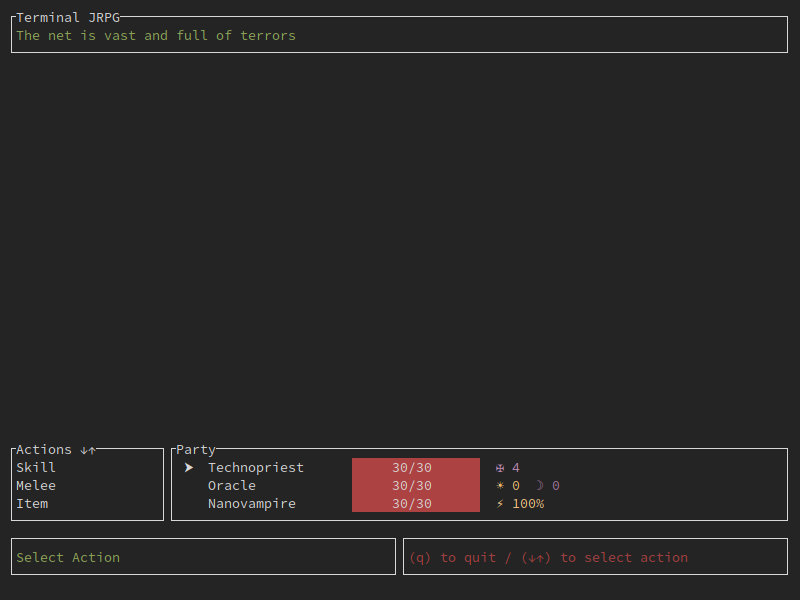
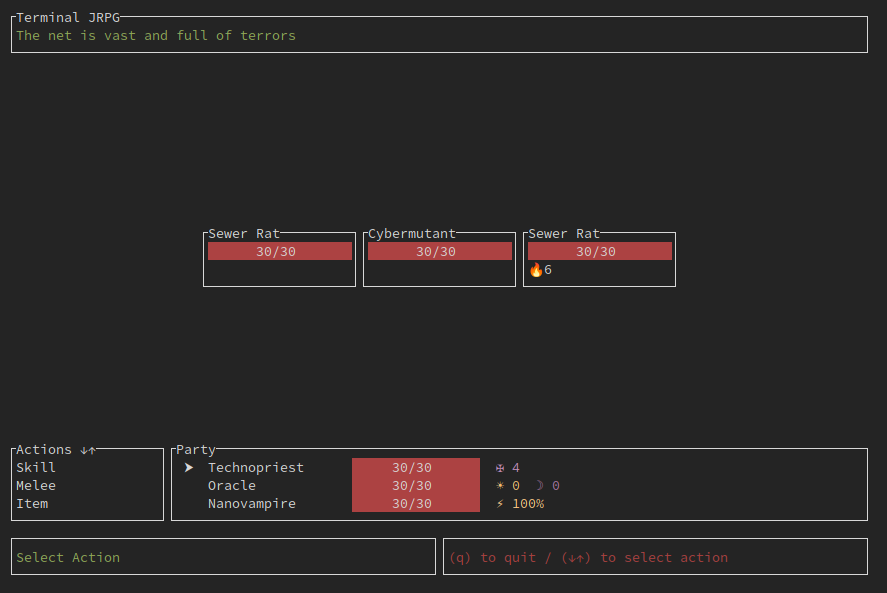
Enemy panels

diff --git a/src/ui.rs b/src/ui.rs
@@ -1,13 +1,15 @@
 use hecs::With;
 use ratatui::{
     Frame,
-    layout::{Constraint, Direction, Layout, Rect},
+    layout::{Constraint, Direction, Flex, Layout, Rect},
     style::{Color, Style},
     text::{Line, Span, Text},
-    widgets::{Block, Borders, Gauge, List, Paragraph, Wrap},
+    widgets::{Block, Borders, Clear, Gauge, List, Paragraph, Wrap},
 };
 
-use crate::app::{App, CurrentScreen, Health, Job, Name, Party, Stats};
+use crate::app::{
+    App, Burning, CurrentScreen, GameState, Health, Hostile, Job, Name, Party, Stats,
+};
 
 pub fn ui(frame: &mut Frame, app: &App) {
     let chunks = Layout::default()
@@ -42,7 +44,72 @@ fn draw_title(frame: &mut Frame, rect: Rect) {
     frame.render_widget(title, rect);
 }
 
-fn draw_field(frame: &mut Frame, rect: Rect, app: &App) {}
+fn draw_field(frame: &mut Frame, rect: Rect, app: &App) {
+    match app.game_state {
+        GameState::Combat => draw_enemies(frame, rect, app),
+        _ => unimplemented!(),
+    }
+}
+
+struct EnemyInfo {
+    name: String,
+    health: u32,
+    max_health: u32,
+    status: String,
+}
+
+fn draw_enemies(frame: &mut Frame, rect: Rect, app: &App) {
+    let enemy_info = app
+        .world
+        .query::<With<(&Name, &Health, &Stats), &Hostile>>()
+        .iter()
+        .map(|(entity, (Name(name), Health(health), stats))| {
+            let mut status = String::new();
+            if let Ok(burning) = app.world.get::<&Burning>(entity) {
+                status += &format!("🔥{}", burning.0);
+            }
+            EnemyInfo {
+                name: name.clone(),
+                health: *health,
+                max_health: stats.max_health,
+                status,
+            }
+        })
+        .collect::<Vec<_>>();
+
+    let centered = Layout::vertical(vec![Constraint::Length(4)])
+        .flex(Flex::Center)
+        .split(rect);
+    let enemy_chunks = Layout::horizontal(vec![Constraint::Length(20); enemy_info.len()])
+        .flex(Flex::Center)
+        .split(centered[0]);
+
+    enemy_info.iter().enumerate().for_each(|(i, info)| {
+        frame.render_widget(
+            Block::default()
+                .title(info.name.as_str())
+                .borders(Borders::ALL),
+            enemy_chunks[i],
+        );
+        let info_chunks = Layout::vertical(vec![Constraint::Length(1), Constraint::Fill(1)])
+            .margin(1)
+            .split(enemy_chunks[i]);
+        let mut chunk = 0;
+        frame.render_widget(
+            Gauge::default()
+                .ratio(info.health as f64 / info.max_health as f64)
+                .label(format!("{}/{}", info.health, info.max_health))
+                .gauge_style(Color::Red),
+            info_chunks[chunk],
+        );
+
+        chunk += 1;
+        frame.render_widget(
+            Paragraph::new(Text::raw(info.status.as_str())),
+            info_chunks[chunk],
+        );
+    });
+}
 
 fn draw_main(frame: &mut Frame, rect: Rect, app: &App) {
     let main_chunks = Layout::default()
@@ -199,6 +266,7 @@ fn draw_popup(frame: &mut Frame, app: &App) {
             .wrap(Wrap { trim: false });
 
         let area = centered_rect(60, 25, frame.area());
+        frame.render_widget(Clear, area);
         frame.render_widget(exit_paragraph, area);
     }
 }

diff --git a/src/app.rs b/src/app.rs
@@ -2,14 +2,21 @@ use hecs::{Entity, World};
 use hecs_macros::Bundle;
 use ratatui::crossterm::event::{KeyCode, KeyEvent};
 
+pub enum GameState {
+    Menu,
+    Overworld,
+    Combat,
+}
+
 pub enum CurrentScreen {
     Main,
-    Target,
     Skill,
+    Target,
     Exiting,
 }
 
 pub struct App {
+    pub game_state: GameState,
     pub current_screen: CurrentScreen,
     pub world: World,
     pub turn: Option<Entity>,
@@ -155,14 +162,17 @@ impl App {
             name: Name("Cybermutant".into()),
             ..Default::default()
         });
-        world.spawn(NPCBundle {
+        let rat = world.spawn(NPCBundle {
             name: Name("Sewer Rat".into()),
             ..Default::default()
         });
 
+        let _ = world.insert_one(rat, Burning(6));
+
         level_up(&mut world);
 
         App {
+            game_state: GameState::Combat,
             current_screen: CurrentScreen::Main,
             world,
             turn: Some(turn),
